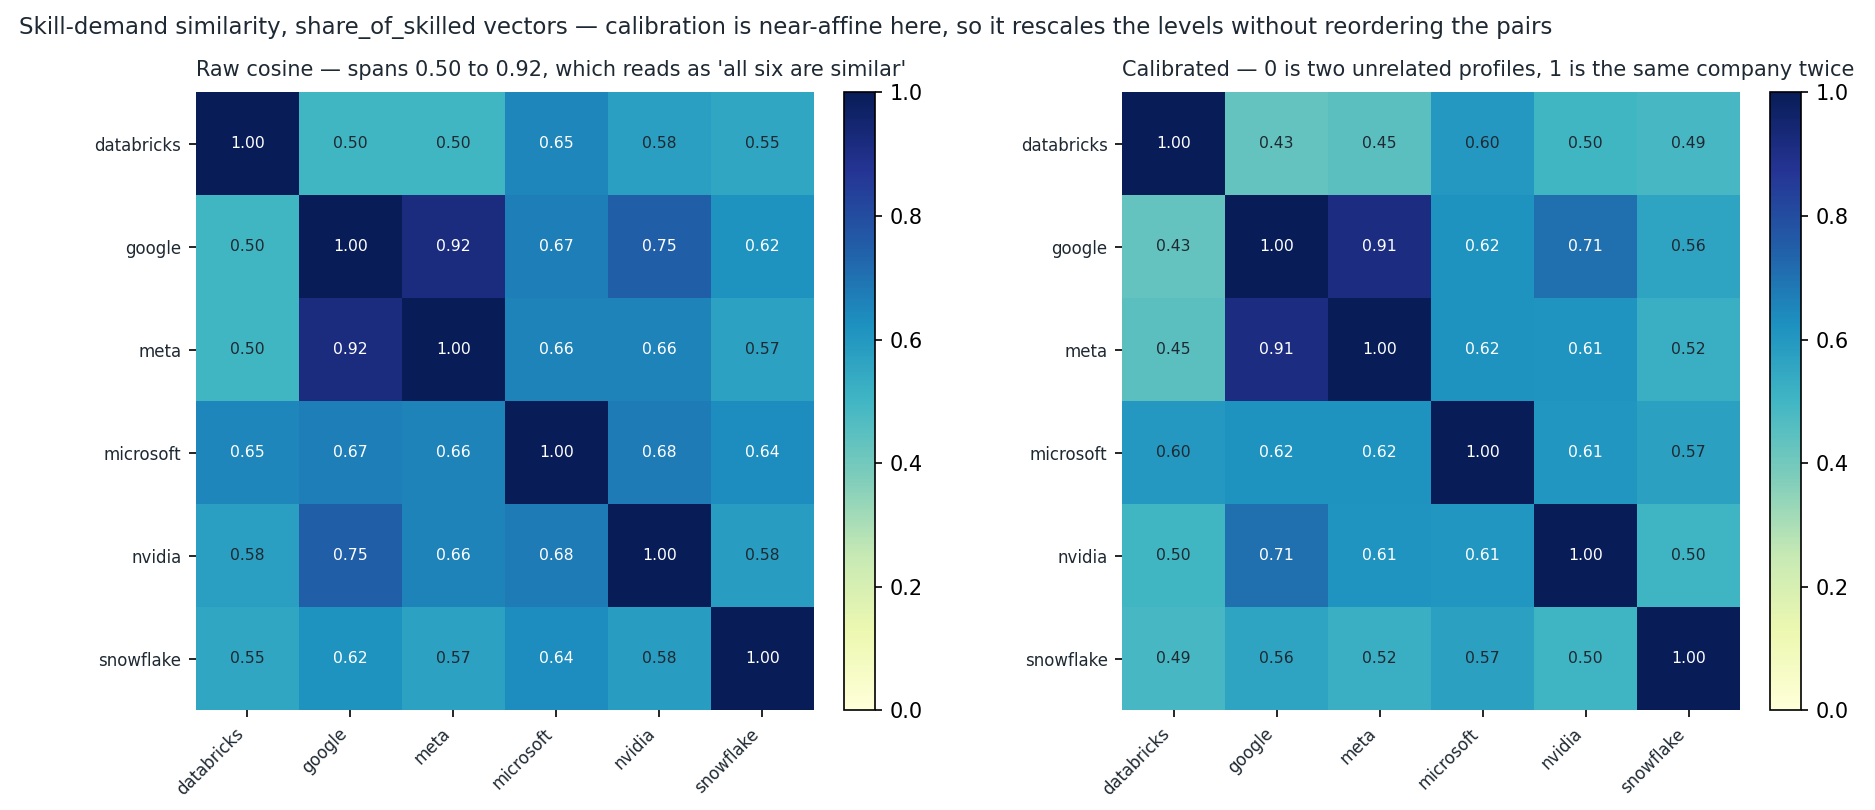
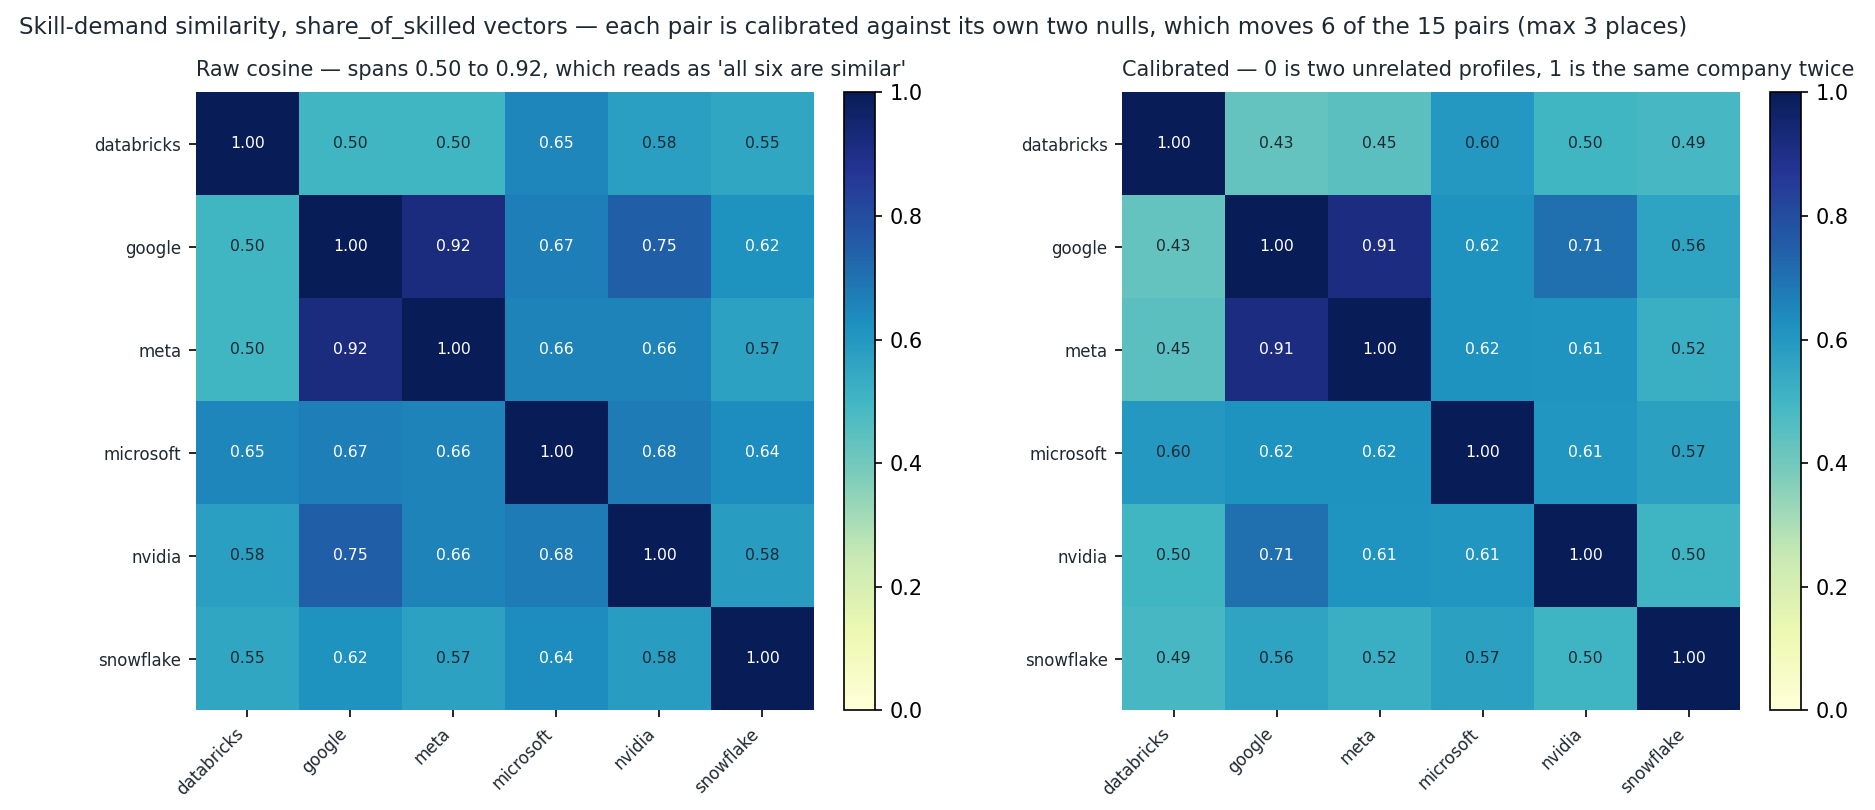
fix: calibration does reorder pairs — 6 of 15, max 3 places
Figure 01's caption and fig_heatmap's docstring both claimed calibration was
near-affine and therefore could not reorder the pairs. It reorders six of the
fifteen. Each pair is divided by its own null spread and the nulls are not
equal across pairs: NVIDIA's unrelated null is the highest of the six (0.165
to 0.189, against Databricks-Meta's 0.096) because its marginals sit on skills
everyone asks for, so more of an NVIDIA pair's raw score is already reachable
by chance. Microsoft-NVIDIA is raw rank 3 and calibrated rank 6.

Caption and docstring now state the effect and its cause.

Changed region(s): [[0.3093, 0.0, 0.8971, 0.0617]]

diff --git a/src/build_similarity.py b/src/build_similarity.py
@@ -133,12 +133,18 @@ def _label(row) -> str:
 def fig_heatmap(matrix: pd.DataFrame, cal: pd.DataFrame, path: Path) -> str:
     """The similarity matrix twice — raw, then on the calibrated scale.
 
-    The two panels look alike, and that is the honest result: with an
-    unrelated null near 0.13 and an identical null near 0.99, calibration is
-    close to an affine rescaling, so it cannot and does not reorder the pairs.
-    What it changes is the *reading* of a cell. 0.55 in the left panel invites
-    "moderately similar"; the right panel says it is halfway between two
-    companies with nothing in common and two companies that are the same one.
+    The two panels look alike, and mostly they are: with an unrelated null
+    near 0.13 and an identical null near 0.99, calibration is close to a
+    rescaling. What it changes first is the *reading* of a cell. 0.55 in the
+    left panel invites "moderately similar"; the right panel says it is
+    halfway between two companies with nothing in common and two companies
+    that are the same one.
+
+    It is not only a rescaling, though, and the caption says so. Each pair is
+    divided by its own null spread, and the nulls are not equal across pairs —
+    NVIDIA's unrelated null is the highest of the six because its marginals
+    sit on skills everyone asks for. Six of the fifteen pairs change rank
+    between the panels, the largest move being three places.
     """
     keys = list(matrix.index)
     cal_m = pd.DataFrame(np.nan, index=keys, columns=keys, dtype=float)
@@ -167,9 +173,10 @@ def fig_heatmap(matrix: pd.DataFrame, cal: pd.DataFrame, path: Path) -> str:
         for side in ax.spines.values():
             side.set_visible(False)
         fig.colorbar(im, ax=ax, fraction=0.046, pad=0.04)
-    fig.suptitle("Skill-demand similarity, share_of_skilled vectors — calibration "
-                 "is near-affine here, so it rescales the levels without "
-                 "reordering the pairs", fontsize=11, color=INK, x=0.01, ha="left")
+    fig.suptitle("Skill-demand similarity, share_of_skilled vectors — each pair "
+                 "is calibrated against its own two nulls, which moves 6 of the "
+                 "15 pairs (max 3 places)", fontsize=11, color=INK, x=0.01,
+                 ha="left")
     fig.subplots_adjust(top=0.88)
     return _save(fig, path)
 
